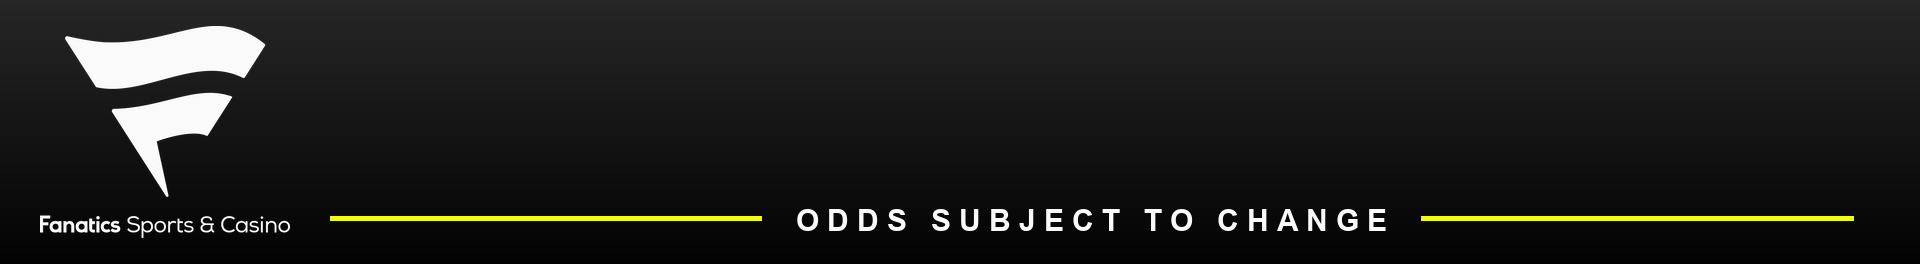
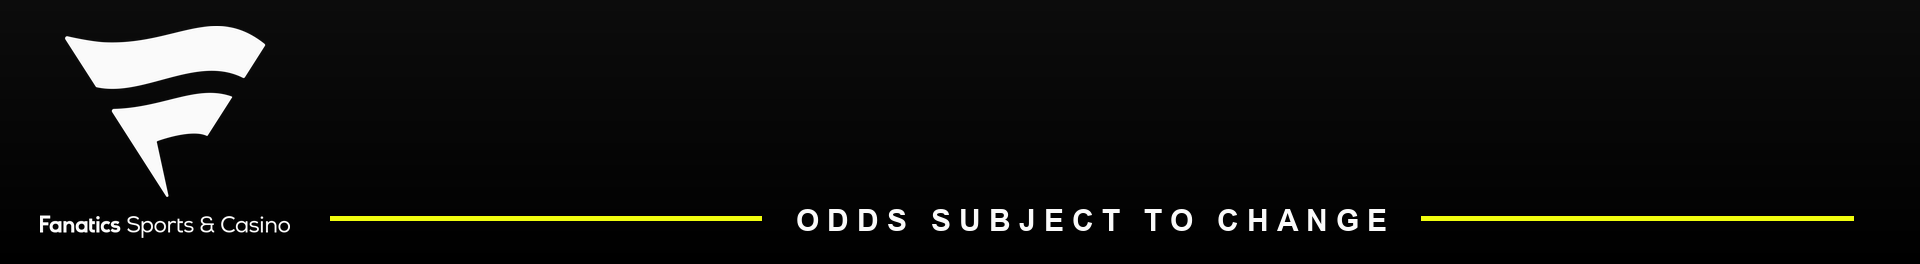
Darken bar art to near-black (was grey at top)

Changed region(s): [[0.0, 0.0, 1.0, 0.0909]]

diff --git a/display.html b/display.html
@@ -56,11 +56,11 @@ body{font-family:'Sofia Sans Semi Condensed',sans-serif;}
 <div id="stage">
   <div id="barpos">
     <div id="propbar" class="box">
-      <img class="art" src="bar.png?v=2" alt=""/>
+      <img class="art" src="bar.png?v=3" alt=""/>
       <div class="vp"><div class="track"></div></div>
     </div>
     <div id="bar" class="box">
-      <img class="art" src="bar.png?v=2" alt=""/>
+      <img class="art" src="bar.png?v=3" alt=""/>
       <div class="vp"><div class="track"></div></div>
     </div>
   </div>
